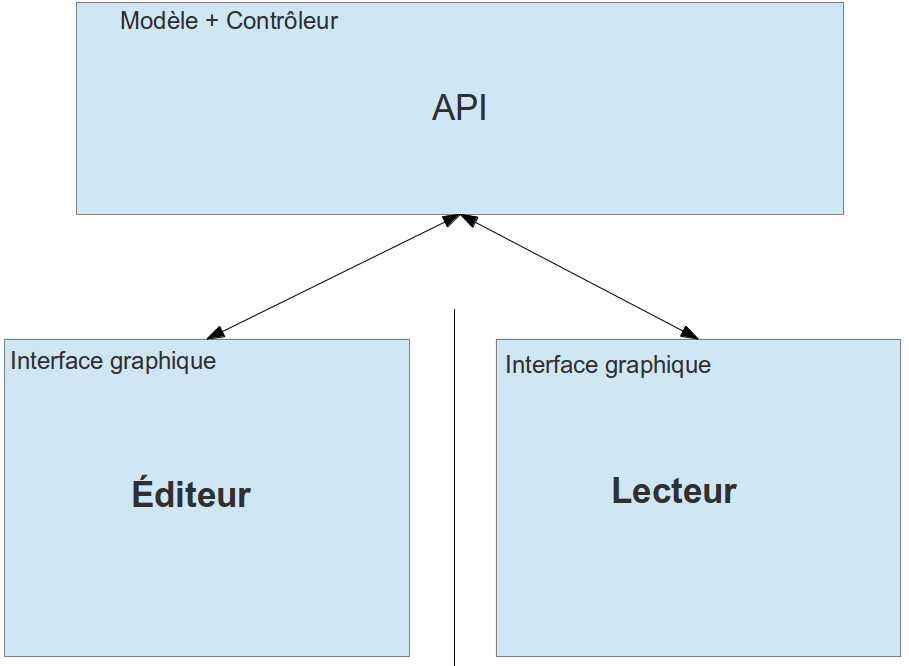
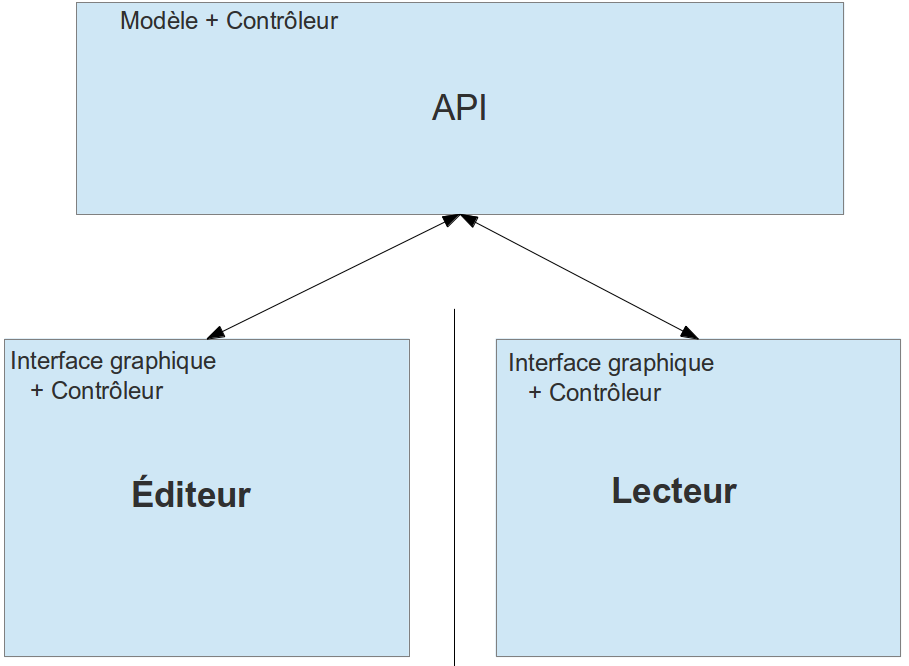
Rapport: Conclusion + architecture de l'éditeur

Changed region(s): [[0.5545, 0.5105, 0.8009, 0.6006], [0.0308, 0.5706, 0.1848, 0.6006]]

diff --git a/rapport/rapport.tex b/rapport/rapport.tex
@@ -125,9 +125,9 @@ Il nous a été conseillé dès le début du projet d'adopter le modèle MVC. En
 \end{itemize}
 L'idée était de mettre ce \textit{reste} dans une bibliothèque qui serait appelée à la fois par l'éditeur et par le lecteur (même si ce ne sont pas forcément les mêmes parties qui les intéressent). La figure \ref{mvc} résume cette organisation.
 
-\begin{figure}[H]
+\begin{figure}[!ht]
 \begin{center}
-\includegraphics[width=450px]{mvc.png}
+\includegraphics[width=300px]{mvc.png}
 \caption{Le modèle MVC dans notre code}
 \label{mvc}
 \end{center}
@@ -135,7 +135,9 @@ L'idée était de mettre ce \textit{reste} dans une bibliothèque qui serait app
 
 \subsubsection{L'API}
 
-L'API a été mise en place dès le début du projet, en regroupant dans un même dossier tous les fichiers sources qui ne concernaient pas dirctement l'interface graphique du lecteur, ni celle de l'éditeur. En particulier, c'était le cas de la bibliothèque IScoreLight, qui servait à la lecture de grilles d'accord, ainsi qu'à EHPCP qui est utilisée pour la reconnaissance d'accords.
+L'API a été mise en place dès le début du projet, en regroupant dans un même dossier tous les fichiers sources qui ne concernaient pas dirctement l'interface graphique du lecteur, ni celle de l'éditeur.
+
+\subsubsection*{La modélisation des accords}
 
 Nous avons ensuite ajouté de nouvelles classes pour modéliser les accords de manière la plus abstraite possible, afin de respecter au mieux les objets Modèle du MVC. Nous avons pour cela utilisé trois classes (Tonality, Enrichment, Chord), ainsi que deux énumérations (Note et Alteration) pour définir un accord selon le schéma suivant:
 \begin{itemize}
@@ -143,7 +145,7 @@ Nous avons ensuite ajouté de nouvelles classes pour modéliser les accords de m
  \item Un accord, c'est une \textcolor{blue}{tonalité} et un \textcolor{magenta}{mode}: \textcolor{blue}{G$\flat$}\textcolor{magenta}{m}, \textcolor{blue}{B$\sharp$}\textcolor{magenta}{M}, \dots
 \end{itemize}
 
-Cette découpe des modèles se répercute dans l'architecture de ces classes (voir le diagramme de classes de la figure \ref{diag_api_chords}).
+Cette découpe des modèles se répercute dans l'architecture de ces classes (voir le diagramme de classes de la figure \ref{diag_api_chords}). Bien sûr, différentes méthodes ont été implémentées pour ces différentes classes, bien qu'en réalité peu d'entre elles soient réellement utilisées par GuitarTutor. C'était néanmoins un bon moyen de repartir sur de bonnes bases au début du projet, et certaines de ces méthodes nous ont finalement été utiles plus tard dans la phase de développement. C'est pourquoi nous avons décidé de les laisser dans l'API, dans le cas probable qu'elles soient utiles plus tard à GuitarTutor.
 
 \begin{figure}[!ht]
 \begin{center}
@@ -169,7 +171,16 @@ Cette découpe des modèles se répercute dans l'architecture de ces classes (vo
 \end{center}
 \end{figure}
 
-Ultérieurement la classe \textit{LogicalTrack}. Cet objet représente en mémoire une grille d'accords. Elle est utilisée par l'éditeur, qui transforme les données entrées par l'utiliseur en une instance de \textit{LogicalTrack}, puis fais la conversion en un fichier XML; et de l'autre côté, elle est utilisée par le lecteur qui initialise un objet \textit{LogicalTrack} à partir de la lecture d'un fichier XML. Les fonctions de conversion entre \textit{LogicalTrack} et fichier XML sont elles aussi présentes dans l'API (cf figure \ref{diag_api_tracks}).
+\subsubsection*{La classe \textit{LogicalTrack} et les classes associées}
+
+Ultérieurement, c'est la classe \textit{LogicalTrack} que nous avons mise en place. Cet objet représente en mémoire une grille d'accords. Elle est utilisée par l'éditeur, qui transforme les données entrées par l'utiliseur en une instance de \textit{LogicalTrack}, puis fais la conversion en un fichier XML; et de l'autre côté, elle est utilisée par le lecteur qui initialise un objet \textit{LogicalTrack} à partir de la lecture d'un fichier XML. Sa structure est relativement simple et correspond parfaitement à celle que nous avons choisi d'adopter pour les fichiers XML de sauvegarde de grilles (le format est expliqué plus en détail dans la partie \ref{xml}):
+\begin{itemize}
+ \item Une grille est une suite de parties (intro, refrain, couplet 1,\dots).
+ \item Chaque partie est composée d'une suite de notes
+ \item A chaque note correspond un temps de début, le temps de fin étant le début de la note suivante
+\end{itemize}
+
+Là encore, le découpage des classes découle parfaitement de cette vision d'une grille (figure \ref{diag_api_tracks}). Parallèlement, la classe \textit{TrackLoader}, elle aussi dans l'API, contient deux méthodes statiques qui permettent la conversion d'une instance de \textit{LogicalTrack} vers un fichier XML, ou inversement.
 
 \begin{figure}[!ht]
 \begin{center}
@@ -189,7 +200,21 @@ Ultérieurement la classe \textit{LogicalTrack}. Cet objet représente en mémoi
 \end{center}
 \end{figure}
 
+\subsubsection*{Les autres rôles de l'API}
+
+Comme évoqué en introduction de cette partie, l'API a été à la base construit sur les parties du code d'origine n'étant pas directement liées à l'interface. C'est en suivant ce principe que nous avons ajouté à l'API la bibliothèque IScoreLight, qui servait à la lecture de grilles d'accord, ainsi que EHPCP qui est utilisée pour la reconnaissance des accords. Dans la même veine, on peut évoquer les classes qui servaient déjà à la gestion audio du lecteur, telles que \textit{Track} (que nous avons plus tard adaptée à nos besoins) pour charger en mémoire un fichier audio, ou \textit{MusicManager}, classe pilier concernant la gestion des entrées et des sorties audio.
+
 \subsubsection{L'éditeur}
+
+Le rôle de l'éditeur est d'assister l'utilisateur pour construire une grille d'accords qui soit lisible et jouable sur le lecteur. En accord avec la conception MVC, l'éditeur en lui-même ne regroupe que les éléments se rapportant à l'interface graphique ou ayant des rôles de contrôleurs. La souche de l'éditeur est en fait le widget \textit{GridEditor}, qui sert à la fois d'interface et d'orchestrateur entre les différentes sous-composantes de l'éditeur, à savoir:
+\begin{itemize}
+ \item \textit{ChordTableWidget}, qui apparaît à l'écran comme un tableau où chaque case (instances de la classe \textit{CaseItem}) doivent contenir un accord
+ \item \textit{AudioWindow}, qui regroupe tout ce qui a trait à la synchronisation entre les accords de la grille et le morceau qui sera joué simultanément dans le lecteur.
+ \item \textit{TrackProperties}, qui sert à concentrer toutes les informations générales sur la grille en cours d'édition, telles que le nom de l'artiste, la signature rythmique, etc.
+\end{itemize}
+
+La classe \textit{GridEditor} orchestre donc l'ensemble des actions de l'utilisateur sur chacune de ces sous-composantes en répercutant les effets sur les autres composantes. Par exemple, changer le nombre d'accords par mesure dans \textit{TrackProperties} va changer l'affichage du \textit{ChordTableWidget}; ou encore, changer le tempo dans l'objet \textit{AudioWindow} va décaler les temps de chaque \textit{CaseItem}.
+
 
 \begin{figure}[!ht]
 \begin{center}
@@ -333,6 +358,7 @@ FMOD est la librairie audio qui est utilisée aujourd'hui dans l'éditeur et dan
 FMOD comporte de nombreux avantages, comme par exemple la lecture de formats compressés tels que le mp3, aujourd'hui incontournable. Jusqu'à présent, \textit{libsndfile} limitait l'utilisation de GuitarTutor aux fichiers wav, ce qui contraignait l'utilisateur à manipuler des fichiers de très grande taille dans des formats dépassés. FMOD disposait également des mêmes fonctionnalités que celles qui étaient alors utilisées dans le code avec \textit{libsndfile}, ce qui permettait de ne pas géner la transition. FMOD nous a donc semblé être un bon choix, malgré le fait qu'il s'agisse d'un code propriétaire (nous n'avons pas eu de contre-indication de la part des clients à ce propos).
 
 \subsection{Format d'échange en XML}
+\label{xml}
 
 L'échange entre l'éditeur et le lecteur se fait par l'intermédiaire de fichiers. Ces fichiers sont créés et modifiés par l'éditeur, puis lus dans le lecteur. Initialement, le format qui était utilisé listait les différentes parties du morceau, ainsi que les accords devant être joués et le temps en millisecondes correspondant (par rapport au début de la musique). Le fichier audio lu simultanément était, quant à lui, codé en dur dans le code source. Bien qu'il eut été facile de se contenter d'intégrer le chemin du fichier audio en début de fichier, nous avons préféré repenser totalement le format du fichier d'échange en nous basant sur le langage XML.
 
@@ -341,7 +367,7 @@ L'échange entre l'éditeur et le lecteur se fait par l'intermédiaire de fichie
 \begin{tabular}{l|l}
  & \verb{<?xml version="1.0"?>{\\
  & \verb{<morceau timeSignature="4" line="16" chordMesure="1" end="261735"{ \\
- & \verb{  nom="Hotel California" comment="Un classique de 1976" c$TODO$olumn="4"{ \\
+ & \verb{  nom="Hotel California" comment="Un classique de 1976" column="4"{ \\
  & \verb{  fichier="Tracks/HotelCalifornia/EaglesHotelCalifornia.mp3"{ \\
  & \verb{  beginning="53145" bar="56402" artiste="The Eagles">{ \\
 \verb{[COUPLET1]{ & \verb{  <partie nom="Couplet 1">{ \\
@@ -497,6 +523,18 @@ De manière générale, cette méthode de développement semble avoir bien fonct
 \clearpage
 
 \section*{Conclusion}
+
+\subsection*{Un objectif atteint}
+
+Nos clients avaient été très clair à ce sujet lors de la présentation du projet: l'objectif était, à la fin du PFA, de fournir deux programmes totalement fonctionnels, et prêts pour une démonstration en école de musique.
+
+Nous avons remis à nos clients, peu de temps avant la date finale des projets, une version en \textit{pre-release} de GuitarTutor afin qu'ils puissent avoir un réel aperçu du programme, et que nous puissions, le cas échéant, corriger quelques détails. Ceux-ci semblent avoir été particulièrement satisfaits du travail que nous avons réalisé, et c'est là le plus important pour notre propre satisfaction. Le deuxième point est sans doute le fait que nous pensons clairement avoir atteints les objectifs qui étaient demandés. Nous avons en effet réalisé une suite logicielle qui, à notre sens, semble parfaitement utilisable dans le contexte cible - c'est-à-dire en école de musique -, et c'était d'ailleurs ce vers quoi nous avons orienté notre développement. La compatibilité du projet sur les systèmes Windows et Mac est elle aussi parfaitement respectée, malgré les difficultés loin d'être négligeables auxquelles nous avons été confrontés.
+
+\subsection*{Un travail d'équipe, une expérience de travail profesionnel}
+
+Le PFA aura également été l'opportunité d'apprendre à gérer un véritable travail en équipe, d'adopter une méthode de développement, ainsi que de connaître des outils comme Git ou la librairie Qt, qui, sans être incontournables, font de même bonne figure sur un CV. C'était aussi l'occasion de débattre et de rechercher des informations sur la manière d'implémenter les choses; ou encore de travailler à partir d'un code existant.
+
+En clair, il s'agissait de savoir se comporter dans un contexte quasi-professionnel, et c'est sans aucun doute une expérience extrêmement enrichissante.
 %Ce que nous a apporté le projet
 %Apprentissage de librairies complexes
 %Si chacun veut mettre un mot personnel ici...
